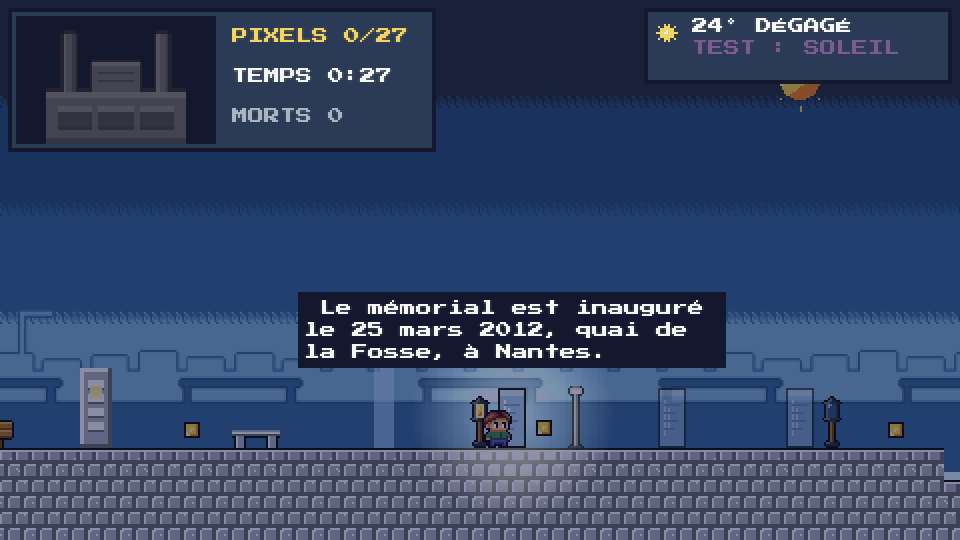
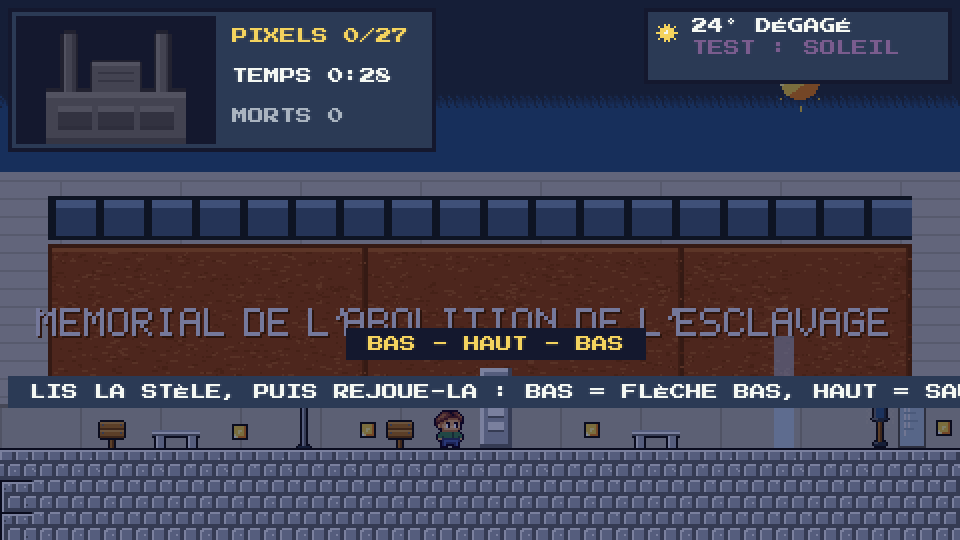
Mémorial : mur de corten sur tout le niveau, passage d'après le vrai lieu (piliers et Loire, verre à citations), chronologie 1777-1888 (dalles datées), une seule plaque de texte à la fois

diff --git a/js/systems/LevelArt.js b/js/systems/LevelArt.js
@@ -1005,6 +1005,69 @@ GP.LevelArt = (function () {
     for (i = 0; i < 4; i++) { R(ctx, 0, 120 + i * 3, 208, 3, i % 2 ? pierreO : pierre); R(ctx, 0, 120 + i * 3, 208, 1, k); }                              // marches
     return o.cv;
   }
+  var POLICE_MEM = {
+    A: ['01110', '10001', '10001', '11111', '10001', '10001', '10001'], B: ['11110', '10001', '10001', '11110', '10001', '10001', '11110'],
+    C: ['01110', '10001', '10000', '10000', '10000', '10001', '01110'], D: ['11110', '10001', '10001', '10001', '10001', '10001', '11110'],
+    E: ['11111', '10000', '10000', '11110', '10000', '10000', '11111'], G: ['01110', '10001', '10000', '10111', '10001', '10001', '01110'],
+    I: ['01110', '00100', '00100', '00100', '00100', '00100', '01110'], L: ['10000', '10000', '10000', '10000', '10000', '10000', '11111'],
+    M: ['10001', '11011', '10101', '10101', '10001', '10001', '10001'], N: ['10001', '11001', '10101', '10011', '10001', '10001', '10001'],
+    O: ['01110', '10001', '10001', '10001', '10001', '10001', '01110'], R: ['11110', '10001', '10001', '11110', '10100', '10010', '10001'],
+    S: ['01111', '10000', '10000', '01110', '00001', '00001', '11110'], T: ['11111', '00100', '00100', '00100', '00100', '00100', '00100'],
+    V: ['10001', '10001', '10001', '10001', '10001', '01010', '00100'], "'": ['00100', '00100', '01000', '00000', '00000', '00000', '00000']
+  };
+  /** Écrit un texte en grosses lettres de la police ci-dessus (échelle sc) : lettre claire et ombre portée. */
+  function lettresMemorial(ctx, txt, x0, y0, sc, col, ombre) {
+    var cx = x0;
+    for (var c = 0; c < txt.length; c++) {
+      var ch = txt[c]; if (ch === ' ') { cx += 4 * sc; continue; }
+      var g = POLICE_MEM[ch];
+      for (var gy = 0; gy < 7; gy++) for (var gx = 0; gx < 5; gx++) if (g[gy][gx] === '1') { R(ctx, cx + gx * sc + 1, y0 + gy * sc + 1, sc, sc, ombre); R(ctx, cx + gx * sc, y0 + gy * sc, sc, sc, col); }
+      cx += (ch === "'" ? 3 : 6) * sc;
+    }
+    return cx - x0;
+  }
+  /**
+   * Fond extérieur du Mémorial (480×236, se répète) : tout le long du niveau, un grand mur d'acier corten (terracotta rouillé) en panneaux de 160 px séparés par des joints,
+   * marbrures de rouille, bandeau de béton clair en haut et socle de béton. D'après des photos du lieu (Wikimédia Commons, référence uniquement).
+   */
+  function drawFondMemorialCorten() {
+    var w = 480, h = 236, o = PA.canvas(w, h), ctx = o.ctx, rnd = PA.rng(12), x, y, i;
+    R(ctx, 0, 0, w, h, '#9a4a2c');
+    for (i = 0; i < 2600; i++) { var px = Math.floor(rnd() * w), py = Math.floor(rnd() * h); R(ctx, px, py, 1 + Math.floor(rnd() * 4), 1 + (rnd() < 0.3 ? 1 : 0), rnd() < 0.5 ? '#8a3f24' : '#b0603a'); }   // marbrures de rouille
+    for (x = 0; x < w; x += 160) { R(ctx, x, 0, 2, h, '#6a321e'); R(ctx, x + 2, 0, 1, h, '#b8663c'); for (y = 12; y < h; y += 40) { P(ctx, x + 6, y, '#6a321e'); P(ctx, x + 154, y, '#6a321e'); } }   // joints et boulons
+    R(ctx, 0, 0, w, 16, '#c4c4bd'); for (x = 0; x < w; x += 60) R(ctx, x, 0, 1, 16, '#aeaea8'); R(ctx, 0, 16, w, 2, '#6a321e');   // bandeau de béton en haut
+    R(ctx, 0, 204, w, 32, '#b9b9b2'); R(ctx, 0, 204, w, 2, '#8a8a84'); for (x = 0; x < w; x += 40) R(ctx, x, 206, 1, 30, '#a0a09a');   // socle de béton
+    return o.cv;
+  }
+  /** Lettres du Mémorial (480×150, transparent) : « MEMORIAL DE L'ABOLITION / DE L'ESCLAVAGE » en grosses lettres claires, posées sur le mur de corten. */
+  function drawFacadeMemorial() {
+    var o = PA.canvas(480, 150), ctx = o.ctx, sc = 3;
+    var l1 = "MEMORIAL DE L'ABOLITION", l2 = "DE L'ESCLAVAGE", w1 = lettresMemorial(PA.canvas(1, 1).ctx, l1, 0, 0, sc, '#000', '#000'), w2 = lettresMemorial(PA.canvas(1, 1).ctx, l2, 0, 0, sc, '#000', '#000');
+    lettresMemorial(ctx, l1, Math.floor((480 - w1) / 2), 22, sc, '#ecece8', '#5a2814');
+    lettresMemorial(ctx, l2, Math.floor((480 - w2) / 2), 58, sc, '#ecece8', '#5a2814');
+    return o.cv;
+  }
+  /** Passage souterrain du Mémorial (480×236, se répète) : béton brut, poutres, grandes plaques de verre translucides vert pâle gravées de lignes de texte, ouverture vers le ciel. */
+  function drawFondMemorialPassage() {
+    // Sous le quai (d'après le vrai passage) : une moitié ouverte sur la Loire entre des piliers de béton, une moitié de mur de verre dépoli incliné gravé de citations
+    var w = 480, h = 236, o = PA.canvas(w, h), ctx = o.ctx, rnd = PA.rng(19), x, y, i;
+    R(ctx, 0, 0, w, h, '#8a8a85'); for (y = 6; y < h; y += 10) { R(ctx, 0, y, w, 1, '#767671'); for (x = (y % 20 ? 40 : 0); x < w; x += 80) R(ctx, x, y, 1, 10, '#767671'); }   // béton banché
+    R(ctx, 0, 0, w, 30, '#5d5d5a'); R(ctx, 0, 30, w, 4, '#4a4a47');                                                  // plafond (dessous du quai)
+    // moitié gauche : la Loire vue entre les piliers
+    R(ctx, 0, 34, 240, 136, '#c9d6de'); R(ctx, 0, 34, 240, 50, '#dbe6ee'); R(ctx, 0, 84, 240, 4, '#9fb0ba');           // ciel clair, rive d'en face
+    R(ctx, 0, 88, 240, 82, '#7f95a2'); for (y = 92; y < 170; y += 5) for (x = Math.floor(rnd() * 14); x < 240; x += 18 + Math.floor(rnd() * 14)) R(ctx, x, y, 6 + Math.floor(rnd() * 8), 1, '#a8bcc8');   // l'eau et ses reflets
+    for (x = 0; x <= 240; x += 80) { R(ctx, x, 34, 26, 136, '#a3a39e'); R(ctx, x + 22, 34, 4, 136, '#77776f'); R(ctx, x, 34, 3, 136, '#bdbdb7'); }   // piliers
+    // moitié droite : mur de verre dépoli, légèrement incliné (les montants penchent), citations gravées
+    R(ctx, 240, 34, 240, 136, '#5c6a66');
+    for (i = 0; i < 4; i++) {
+      var gx = 246 + i * 58;
+      R(ctx, gx, 38, 54, 128, '#cfe0d8'); R(ctx, gx, 38, 54, 22, '#e6f1ec'); R(ctx, gx + 4, 38, 3, 128, 'rgba(255,255,255,0.5)');
+      for (y = 52; y < 156; y += 6) { var lw = 18 + Math.floor(rnd() * 28); R(ctx, gx + 6, y + Math.floor((gx - 246) / 58), lw, 1, '#7e9a8a'); }   // lignes de citations gravées
+      for (y = 38; y < 166; y += 8) R(ctx, gx + 50 - Math.floor((y - 38) / 32), y, 2, 8, '#7d8f88');                  // montant incliné
+    }
+    R(ctx, 0, 170, w, 66, '#6a6a66'); for (x = 0; x < w; x += 48) R(ctx, x, 170, 1, 66, '#585854'); R(ctx, 0, 170, w, 2, '#8a8a85');   // sol de béton
+    return o.cv;
+  }
   /** Note de musique lancée par les Muses du théâtre. */
   function drawNote() {
     var o = PA.canvas(10, 12), ctx = o.ctx, k = GP.PAL.k, y = GP.PAL.y;
@@ -1095,6 +1158,9 @@ GP.LevelArt = (function () {
     PA.toTexture(scene, 'lv_caisse_bananes', drawCaisseBananes());
     PA.toTexture(scene, 'lv_regime', drawRegime());
     PA.toTexture(scene, 'lv_peau', drawPeau());
+    PA.toTexture(scene, 'lv_facade_memorial', drawFacadeMemorial());
+    PA.toTexture(scene, 'lv_fond_memorial_corten', drawFondMemorialCorten());
+    PA.toTexture(scene, 'lv_fond_memorial_passage', drawFondMemorialPassage());
     PA.toTexture(scene, 'lv_facade_graslin', drawFacadeGraslin());
     ['boulangerie', 'chaussettes', 'sacs', 'vetements', 'chapeaux'].forEach(function (b) { PA.toTexture(scene, 'lv_boutique_' + b, drawBoutique(b)); });
     PA.toTexture(scene, 'lv_tapis_rouge', drawTapisRouge());

diff --git a/js/systems/Dangers.js b/js/systems/Dangers.js
@@ -262,8 +262,11 @@ GP.Dangers = function (scene) {
   var glassSet = ['memorial_sol_dalle_verre', 'memorial_sol_dalle_verre', 'memorial_sol_dalle_verre'];
   this.glasses = (L.glasses || []).map(function (g, i) {
     var img = scene.add.image(g.x * 16, g.y * 16, scene.rowTexture('lv_glass_' + i, glassSet, g.w)).setOrigin(0, 0).setDepth(9).setAlpha(0.92);
-    return { img: img, body: scene.platformBody(img, true), x: img.x, w: g.w * 16, state: 'solid', timer: 0 };
+    var c = { img: img, body: scene.platformBody(img, true), x: img.x, w: g.w * 16, state: 'solid', timer: 0, rang: g.rang, lit: false };
+    if (g.annee) c.label = GP.UI.txt(scene, img.x + g.w * 8, img.y - 2, String(g.annee), GP.PAL.w, { backgroundColor: GP.PAL.k, padding: { x: 2, y: 2 } }).setOrigin(0.5, 1).setDepth(10);
+    return c;
   });
+  this.dateNext = 0;   // prochain rang de dalle datée à poser (chronologie)
 
   // ---------- Mémoire : une stèle à lire, puis une porte de lumière qui s'ouvre si on rejoue la séquence (sans danger) ----------
   var WORD = { D: 'BAS', J: 'HAUT' };
@@ -556,9 +559,11 @@ GP.Dangers.prototype = {
     });
 
     // plaques de verre du Mémorial : on s'approche, elles s'allument (et le restent) ; leur texte s'affiche tant qu'on est à côté
+    var proche = null;   // une seule plaque parle à la fois : la plus proche (sinon les textes se superposent)
+    this.plaques.forEach(function (q) { if (Math.abs(p.x - q.x) < 36 && (!proche || Math.abs(p.x - q.x) < Math.abs(p.x - proche.x))) proche = q; });
     this.plaques.forEach(function (q) {
-      var near = Math.abs(p.x - q.x) < 36;
-      if (near && !q.lit) { q.lit = true; q.img.setAlpha(1); if (q.halo) q.halo.setAlpha(0.7); GP.Sfx.play('step'); }
+      var near = q === proche;
+      if (Math.abs(p.x - q.x) < 36 && !q.lit) { q.lit = true; q.img.setAlpha(1); if (q.halo) q.halo.setAlpha(0.7); GP.Sfx.play('step'); }
       q.txt.setAlpha(near ? 1 : 0);
     });
 
@@ -590,13 +595,17 @@ GP.Dangers.prototype = {
     // dalles de verre
     this.glasses.forEach(function (c) {
       var on = c.state === 'solid' && b.touching.down && b.bottom <= c.img.y + 2 && b.right > c.img.x && b.x < c.img.x + c.w;
+      if (on && c.rang !== undefined) {   // dalle datée : dans l'ordre elle s'allume et reste, sinon elle se fissure et la chronologie repart de zéro
+        if (c.lit || c.rang === self.dateNext) { if (!c.lit) { c.lit = true; self.dateNext++; c.img.setTint(0xffe9a0); GP.Sfx.play('confirm'); } on = false; }
+        else self.glasses.forEach(function (o) { if (o.lit) { o.lit = false; o.img.clearTint(); } }), self.dateNext = 0;
+      }
       if (on) { c.state = 'cracking'; c.timer = 800 * self.f('glass'); GP.Sfx.play('step'); c.img.setTint(0xd8ecff); }
       if (c.state === 'cracking') {
         c.timer -= dt; c.img.x = c.x + (GP.reducedMotion ? 0 : (Math.floor(c.timer / 60) % 2 ? 1 : -1));
-        if (c.timer <= 0) { c.state = 'gone'; c.timer = 3000 * self.f('glassback'); c.body.enable = false; c.img.x = c.x; s.tweens.add({ targets: c.img, alpha: 0, y: c.img.y + 8, duration: 220 }); }
+        if (c.timer <= 0) { c.state = 'gone'; if (c.label) c.label.setAlpha(0.25); c.timer = 3000 * self.f('glassback'); c.body.enable = false; c.img.x = c.x; s.tweens.add({ targets: c.img, alpha: 0, y: c.img.y + 8, duration: 220 }); }
       } else if (c.state === 'gone') {
         c.timer -= dt;
-        if (c.timer <= 0) { c.state = 'solid'; c.body.enable = true; s.tweens.killTweensOf(c.img); c.img.setAlpha(0.92).clearTint().setPosition(c.x, c.body.y); }
+        if (c.timer <= 0) { c.state = 'solid'; if (c.label) c.label.setAlpha(1); c.body.enable = true; s.tweens.killTweensOf(c.img); c.img.setAlpha(0.92).clearTint().setPosition(c.x, c.body.y); }
       }
     });
 

diff --git a/js/data/levels-ville.js b/js/data/levels-ville.js
@@ -442,8 +442,10 @@ GP.LEVELS['memorial'] = (function () {
     L.pix(118, 13); L.pix(124, 13);
     L.check(129);
     L.pond(132, 147, 15);
-    L.glass(133, 14, 3); L.glass(138, 13, 3); L.glass(143, 14, 3);
-    L.pix(134, 13); L.pix(139, 12); L.pix(144, 13);
+    L.hint(131, "DANS L'ORDRE DE L'HISTOIRE : 1777, 1794, 1848, 1888");
+    L.date(133, 14, 2, 0, 1777); L.date(137, 13, 2, 1, 1794); L.date(141, 14, 2, 2, 1848); L.date(145, 13, 2, 3, 1888);   // en quinconce : un peu plus exigeant
+    L.date(130, 11, 2, 3, 1888);   // la dalle tentante, avant le chemin et hors de ses sauts : 1888 trop tôt, elle cède
+    L.pix(134, 13); L.pix(138, 11); L.pix(142, 13); L.pix(146, 11); L.pix(130, 10);
     // 5. La remontée vers la lumière
     L.ground(147, 6, 3); L.ground(153, 6, 4); L.ground(159, 6, 5); L.ground(165, 11, 6);
     L.check(148);
@@ -460,7 +462,9 @@ GP.LEVELS['memorial'] = (function () {
     top: ['memorial_sol_haut_1', 'memorial_sol_haut_2'], fill: 'memorial_sol_plein', left: 'memorial_sol_gauche', right: 'memorial_sol_droite', block: 'memorial_sol_plein',
     ledge: ['memorial_passerelle_metal_g', 'memorial_passerelle_metal_m', 'memorial_passerelle_metal_d'], mover: ['memorial_passerelle_metal_g', 'memorial_passerelle_metal_m', 'memorial_passerelle_metal_d']
   };
-  L.sky = { farKey: 'memorial_fond_tile_x', farBottom: 236 };
+  L.sky = { farKey: 'lv_fond_memorial_corten', farBottom: 236 };         // tout le long : le grand mur d'acier corten
+  L.farSwitch = [[0, 'lv_fond_memorial_corten'], [37, 'lv_fond_memorial_passage', 'ON DESCEND DANS LE PASSAGE SOUTERRAIN'], [150, 'lv_fond_memorial_corten', 'ON REMONTE VERS LA LUMIÈRE']];   // dehors, puis le passage de verre et de béton, puis la remontée
+  L.backdrop = { x: 15, key: 'lv_facade_memorial', scale: 1, tint: false };   // la grande façade d'acier corten et son nom découpé
   L.wxm = { rain: { tide: 1, glass: 0.8 }, sun: { tide: -1, glassback: 0.7 } };
   L.weatherText = { rain: 'LA MARÉE MONTE UN PEU ; LE VERRE CÈDE PLUS VITE', sun: 'LA MARÉE RESTE BASSE ; LE VERRE REVIENT VITE', wind: 'LE VENT SOUFFLE SUR LA LOIRE' };
   return L;

diff --git a/js/data/levels.js b/js/data/levels.js
@@ -88,7 +88,8 @@ GP.LevelBuilder = {
       elephant: function (west, east, period) { L.elephants.push({ west: west, east: east, period: period || 13000 }); },                   // le Grand Éléphant traverse un canal du bord ouest au bord est : on monte sur lui
       borne: function (x, color) { L.cbornes.push({ x: x, color: color }); },                                                              // borne de couleur : la toucher allume les passerelles de sa couleur
       cplat: function (x, y, w, color) { L.cplats.push({ x: x, y: y, w: w, color: color }); },                                           // passerelle de couleur (solide seulement si sa couleur est allumée)
-      glass: function (x, y, w) { L.glasses.push({ x: x, y: y, w: w }); },                                                                    // dalle de verre qui se fissure
+      glass: function (x, y, w) { L.glasses.push({ x: x, y: y, w: w }); },
+      date: function (x, y, w, rang, annee) { L.glasses.push({ x: x, y: y, w: w, rang: rang, annee: annee }); },   // dalle datée : à poser dans l'ordre de l'histoire (rang 0, 1, 2…), sinon elle se fissure                                                                    // dalle de verre qui se fissure
       memo: function (stele, gate, pattern) { L.memos.push({ stele: stele, gate: gate, pattern: pattern.split('') }); },                       // stèle à lire, porte à ouvrir de mémoire (D = bas, J = haut)
       draft: function (x0, x1, y0, y1) { L.drafts.push({ x0: x0, x1: x1, y0: y0, y1: y1 }); },                                               // courant d'air ascendant (gravité allégée)
       pond: function (x0, x1, row) { L.ponds.push({ x0: x0, x1: x1, row: row }); },                                                           // eau décorative

diff --git a/js/data/lang/en.js b/js/data/lang/en.js
@@ -139,6 +139,9 @@ GP.EN = {
     "LA GRUE DU QUAI LÂCHE DES CAISSES DE BANANES : L'OMBRE PRÉVIENT": "THE QUAY CRANE DROPS BANANA CRATES: THE SHADOW WARNS YOU",
     "LES CAISSES FONT UN ESCALIER : MONTE !": "THE CRATES MAKE STAIRS: CLIMB!",
     "LA GRUE PORTE DES CAISSES : TRAVERSE": "THE CRANE CARRIES CRATES: CROSS",
+    "ON DESCEND DANS LE PASSAGE SOUTERRAIN": "WE GO DOWN INTO THE UNDERGROUND PASSAGE",
+    "DANS L'ORDRE DE L'HISTOIRE : 1777, 1794, 1848, 1888": "IN THE ORDER OF HISTORY: 1777, 1794, 1848, 1888",
+    "ON REMONTE VERS LA LUMIÈRE": "WE CLIMB BACK TOWARDS THE LIGHT",
     "LA GALERIE DES MACHINES : AVANCE VERS L'ÉLÉPHANT": "THE MACHINE GALLERY: HEAD FOR THE ELEPHANT",
     "UNE ARAIGNÉE DESCEND : REGARDE-LA POUR LA FIGER OU ACCROUPIS-TOI": "A SPIDER IS COMING DOWN: LOOK AT IT TO FREEZE IT OR CROUCH",
     "MONTE SUR LE GRAND ÉLÉPHANT : IL TRAVERSE LE CANAL": "CLIMB ONTO THE GREAT ELEPHANT: IT CROSSES THE CANAL",

diff --git a/CREDITS.md b/CREDITS.md
@@ -47,6 +47,6 @@ Les photos de repérage de la gare de Nantes et du Jardin des Plantes (arrêt de
 Les **topiaires** et le personnage en bois du jardin sont des œuvres d'artistes vivants, protégées : le jeu les évoque par des formes génériques (butte de feuillage arrondie, silhouette de bois simple) **sans les copier**.
 **Silhouettes du niveau 1** (`lv_sil_orange`, `lv_sil_jaune`, `lv_sil_ruban`, `lv_sil_oiseau`) : dessins originaux de l'équipe, en pixel art, **inspirés** des sculptures colorées installées au Jardin des Plantes (personnages de **Jean Jullien**, oiseau en topiaire évoquant l'univers de **Claude Ponti**). Ce sont des formes très simplifiées, redessinées de zéro : aucune photo ni aucune image des œuvres n'est reprise ni intégrée. Ces rapprochements (artistes, titres exacts des œuvres) sont à confirmer dans `docs/sources.md` avant la présentation.
 **Fond et salles du Château** (`lv_fond_chateau`, `lv_salle_herses`, `lv_salle_gardes`) : dessinés par code, d'après des descriptions de l'architecture du château (Wikipédia) et des vues consultées sur Wikimedia Commons, utilisées comme **référence de dessin uniquement** : aucune image n'est téléchargée ni intégrée.
-**Niveaux 4 à 12** (Île Feydeau, Place Graslin, Machines de l'île, Parc des Chantiers, Anneaux de Buren, Hangar à Bananes, Mémorial, Passage Pommeraye, Tour LU) : décors tirés des planches de sprites existantes (voir « Sprites de décor ») ; les personnages et accessoires ajoutés (esprit de la garde, petit robot, note de musique, conteneur, rideau, tapis roulant) et le dessin de la Tour LU et de sa coupole (forme générale uniquement) sont des dessins originaux de l'équipe, générés par code (`js/systems/LevelArt.js`), sans source externe. Les fonds de Feydeau (hôtels d'armateurs), de Graslin (immeubles de la place), de la Tour LU (ancienne biscuiterie) et du Passage Pommeraye (`lv_fond_feydeau`, `lv_fond_graslin`, `lv_fond_lu`, `lv_fond_pommeraye`) est dessiné par code d'après des vues du passage consultées sur Wikipédia (**référence de dessin uniquement**). Le fond de la nef de la Cathédrale (`lv_fond_nef` : vitraux, rosace, piliers) et les bancs d'église (`lv_banc_eglise`) sont dessinés par code d'après des vues de l'intérieur (référence de dessin uniquement). Le fond du niveau des Machines de l'île (`lv_fond_hangar` : la Galerie des Machines, verrière à treillis et portiques de béton) est dessiné par code d'après des photos de Wikimédia Commons (référence de dessin uniquement). Les machines du niveau des Machines de l'île (`lv_elephant`, `lv_carrousel`, `lv_arbre_herons`, `lv_gardienne`) sont des dessins originaux en pixel art, inspirés de photos de Wikimédia Commons (Grand Éléphant, Carrousel des Mondes Marins, Arbre aux Hérons, La Gardienne des Ténèbres) : **référence de dessin uniquement**, aucune image reprise ; ces œuvres sont celles de La Machine / Les Machines de l'île (François Delarozière, Pierre Orefice). Le fond du niveau du Hangar à Bananes (`lv_fond_hangar_quai`, rails, garde-corps corten, flèche de grue) est dessiné par code d'après des photos du quai des Antilles sur Wikimédia Commons (référence de dessin uniquement). La peau de banane du Hangar est un dessin original, inspiré de la banane des jeux Mario Kart (forme générale et couleurs seulement, rien n'est repris). La façade du théâtre Graslin (`lv_facade_graslin`) est dessinée par code d'après des photos de la place sur Wikimédia Commons (référence de dessin uniquement). Les petits-beurres, le bitume, les panneaux de rue, les feux et l'abribus du niveau de la Tour LU (`lv_pb_*`, `lv_bit_*`, `lv_pan_*`, `lv_feu`, `lv_abribus`, `lv_fond_quartier`) sont des dessins originaux en pixel art ; les panneaux suivent le code de la route de façon très simplifiée, sans reprise du graphisme de la marque LU. Les mécaniques (marée, projecteurs, anneaux, pourriture…) sont codées dans `js/systems/Dangers.js`. Les anneaux de Buren s'inspirent de l'œuvre *Les Anneaux* de Daniel Buren (Quai des Antilles) par une forme générique, sans reproduire l'œuvre ; l'éléphant et les machines évoquent les Machines de l'île sans reprendre leurs dessins.
+**Niveaux 4 à 12** (Île Feydeau, Place Graslin, Machines de l'île, Parc des Chantiers, Anneaux de Buren, Hangar à Bananes, Mémorial, Passage Pommeraye, Tour LU) : décors tirés des planches de sprites existantes (voir « Sprites de décor ») ; les personnages et accessoires ajoutés (esprit de la garde, petit robot, note de musique, conteneur, rideau, tapis roulant) et le dessin de la Tour LU et de sa coupole (forme générale uniquement) sont des dessins originaux de l'équipe, générés par code (`js/systems/LevelArt.js`), sans source externe. Les fonds de Feydeau (hôtels d'armateurs), de Graslin (immeubles de la place), de la Tour LU (ancienne biscuiterie) et du Passage Pommeraye (`lv_fond_feydeau`, `lv_fond_graslin`, `lv_fond_lu`, `lv_fond_pommeraye`) est dessiné par code d'après des vues du passage consultées sur Wikipédia (**référence de dessin uniquement**). Le fond de la nef de la Cathédrale (`lv_fond_nef` : vitraux, rosace, piliers) et les bancs d'église (`lv_banc_eglise`) sont dessinés par code d'après des vues de l'intérieur (référence de dessin uniquement). Le fond du niveau des Machines de l'île (`lv_fond_hangar` : la Galerie des Machines, verrière à treillis et portiques de béton) est dessiné par code d'après des photos de Wikimédia Commons (référence de dessin uniquement). Les machines du niveau des Machines de l'île (`lv_elephant`, `lv_carrousel`, `lv_arbre_herons`, `lv_gardienne`) sont des dessins originaux en pixel art, inspirés de photos de Wikimédia Commons (Grand Éléphant, Carrousel des Mondes Marins, Arbre aux Hérons, La Gardienne des Ténèbres) : **référence de dessin uniquement**, aucune image reprise ; ces œuvres sont celles de La Machine / Les Machines de l'île (François Delarozière, Pierre Orefice). Le fond du niveau du Hangar à Bananes (`lv_fond_hangar_quai`, rails, garde-corps corten, flèche de grue) est dessiné par code d'après des photos du quai des Antilles sur Wikimédia Commons (référence de dessin uniquement). La peau de banane du Hangar est un dessin original, inspiré de la banane des jeux Mario Kart (forme générale et couleurs seulement, rien n'est repris). La façade du théâtre Graslin (`lv_facade_graslin`) est dessinée par code d'après des photos de la place sur Wikimédia Commons (référence de dessin uniquement). La façade et le passage du Mémorial (`lv_facade_memorial`, `lv_fond_memorial_passage`) sont dessinés par code d'après des photos du lieu sur Wikimédia Commons (référence de dessin uniquement ; aucune photo de personne n'est utilisée). Les petits-beurres, le bitume, les panneaux de rue, les feux et l'abribus du niveau de la Tour LU (`lv_pb_*`, `lv_bit_*`, `lv_pan_*`, `lv_feu`, `lv_abribus`, `lv_fond_quartier`) sont des dessins originaux en pixel art ; les panneaux suivent le code de la route de façon très simplifiée, sans reprise du graphisme de la marque LU. Les mécaniques (marée, projecteurs, anneaux, pourriture…) sont codées dans `js/systems/Dangers.js`. Les anneaux de Buren s'inspirent de l'œuvre *Les Anneaux* de Daniel Buren (Quai des Antilles) par une forme générique, sans reproduire l'œuvre ; l'éléphant et les machines évoquent les Machines de l'île sans reprendre leurs dessins.
 **Personnages des anecdotes** (carte du monde, `GP.Scenes.Map.personKey`) : même sprite que l'avatar du joueur (`GP.Character`) avec des accessoires dessinés par code, d'après des portraits et photos d'époque vus sur Wikipédia/Wikimédia Commons (Anne de Bretagne, Jean-Joseph-Louis Graslin, Louis Lefèvre-Utile, Jules Verne : couleurs et silhouette uniquement, **référence de dessin, aucune image reprise**) ; les anecdotes sont des textes reformulés par l'équipe à partir des sources patrimoniales listées dans `docs/sources.md`.
 Les captures de référence fournies (cartes de monde et niveaux de jeux de plateforme, jeux en vue de dessus, planches de touches de clavier) ont servi **d'inspiration uniquement** : aucun élément n'en est repris. Certaines portent des filigranes de banques d'images : elles ne sont ni intégrées au jeu ni diffusées.

diff --git a/docs/carnet-de-bord.md b/docs/carnet-de-bord.md
@@ -61,6 +61,7 @@
 **Machines de l'île et Cathédrale (retours)** : les Machines montrent en décor le Carrousel des Mondes Marins, l'Arbre aux Hérons (avec son héron), la Gardienne des Ténèbres (l'« araignée » : buste de femme en bronze sur un corps d'araignée d'acier) et le Grand Éléphant, dessinés par code d'après des photos de Wikimédia Commons. Cathédrale : les gargouilles (statues dans le vide) sont remplacées par des **fissures de la voûte** qui suintent et laissent tomber des gouttes, sous une arche de pierre en haut de l'écran.
 **Machines : sans tapis roulants, araignées suspendues** : les tapis roulants sont retirés du niveau ; des araignées descendent du plafond au bout d'un fil quand le joueur ne les regarde pas (elles se figent s'il les regarde, remontent s'il s'éloigne ; accroupi, on passe dessous). Vérifié par script.
 **Machines : vrai hangar, sans vent** : le fond reproduit la Galerie des Machines (verrière à treillis d'acier, portiques de béton gris, arbres au fond, plancher clair), d'après des photos de Wikimédia Commons ; l'effet du vent (tapis plus vifs) est retiré : le niveau garde la pluie (jets plus courts) et le soleil (araignées plus rapides). Le carrousel, l'arbre aux hérons, la gardienne et l'éléphant sont toujours là.
+**Mémorial : façade et passage d'après les photos** : grande façade en **acier corten** (terracotta rouillé, trois panneaux) avec le nom « MEMORIAL DE L'ABOLITION DE L'ESCLAVAGE » en lettres claires, cadre de béton banché et bandeau vitré, en décor derrière le parvis ; à la descente (tuile 37), le fond change pour le **passage souterrain** : béton brut, poutres, grandes plaques de verre vert pâle gravées de lignes de texte, ouvertures vers le ciel ; message « ON DESCEND DANS LE PASSAGE SOUTERRAIN » puis « ON REMONTE VERS LA LUMIÈRE » (tuile 150). Pas de vitrines : aucune source consultée n'en mentionne.
 **Place Graslin d'après la photo, Pommeraye plus commerçant** : la façade du théâtre est redessinée comme sur les photos de la place : péristyle de huit colonnes corinthiennes, huit Muses sur le toit et **grandes toiles colorées** tendues entre les colonnes (jaune, vert, bleu, violet, rouge, orange) ; la **fontaine** et les **bornes noires** du parvis sont ajoutées. Au Passage Pommeraye : cinq types de boutiques (boulangerie, vêtements, chaussettes, chapeaux, maroquinerie), une quinzaine en tout, et le tapis rouge court aussi sur les marches du grand escalier et de la dernière montée.
 **Pommeraye plus réaliste, Graslin plus lisible** (retours après la planche des 12 niveaux) : au Passage Pommeraye, les ouvertures du plancher ne montrent plus du ciel et de l'eau mais le **niveau inférieur du passage** (sol de dalles sombres, vitrines éclairées) ; des **boutiques** (boulangerie, magasin de chaussettes, maroquinerie aux sacs) remplacent les devantures génériques, et un **tapis rouge** à liseré doré court le long de la galerie basse et de la mezzanine. À Graslin, de vraies **portes de l'Opéra** (fronton bleu et or aux deux masques, rideaux rouges) marquent l'entrée, avec le message « OPÉRA GRASLIN : ON ENTRE DANS LE THÉÂTRE » quand le décor change. Le nom du lieu s'affiche déjà au début de chaque niveau (« ÉTAPE nn · NOM ») pendant environ 2 secondes.
 **Hangar : les caisses de bananes deviennent un système** (retour de l'équipe) : plus de bananes au sol (le code des peaux est conservé mais plus utilisé) ; les caisses forment un **escalier** (piles de 1, 2, 3, 2, 1 caisses, le dessus de chaque pile est une plateforme, avec des pixels dessus) et la **grue du quai porte deux caisses** qui traversent un vide (`L.caisse`, `L.crane` avec le sprite de la caisse) ; les caisses qui tombent restent en fin de niveau. Vérifié par script : un joueur automatique monte au-dessus de la plus haute pile et passe le vide ; non rejoué à la main.
@@ -80,3 +81,5 @@
 **Anecdotes des personnages (carte du monde)** : à la fin d'un niveau, un petit personnage dessiné par code apparaît près du monument sur la carte ; la fiche du lieu a une page « RENCONTRE » (nom, anecdote, source). Onze lieux, dont un simple panneau au Mémorial. Textes reformulés à partir de sources patrimoniales listées dans `docs/sources.md` (avec les points à confirmer) ; traduits en anglais. À valider par l'équipe.
 **Retour de l'équipe (Buren, mécanique)** : les anneaux de jeu se confondaient avec ceux du décor. Les reflets clignotants (essai) ont été écartés au profit de **bornes de couleur** : marcher sur une borne bleue, verte ou rouge allume les passerelles néon de sa couleur (`L.borne`, `L.cplat`, `js/systems/Dangers.js`), avec une île-borne au milieu des grands bras d'eau ; sous la pluie, une couleur autre que le bleu ne dure que 5 s. Les anneaux d'élan et l'alignement sont retirés de Buren (le code `L.ring` sert encore à la Tour LU). Garde-corps du quai en décor (`L.railing`). Vérifié par script : un joueur qui saute en continu franchit les traversées bleu → rouge, bleu → vert, bleu → vert → rouge sans mourir.
 **Retour de l'équipe (nuit) — Buren** : le décor suit la photo des vrais Anneaux, avec **deux versions du fond selon l'heure de la météo** (jour : rive claire, anneaux colorés ; nuit : rive éclairée, néon allumé), pour que la météo garde son effet : grande image de fond (quai éclairé, dôme, eau) où des anneaux néon bleu, vert et rouge se succèdent en perspective jusqu'à l'horizon ; les anneaux de jeu sont des cercles néon avec halo et mât, plus gros, avec une zone de passage plus généreuse. Le fond change avec `isDay` (`L.nightFond`, `farNightKey`), les règles restent celles de la météo. Vérifié par script : saut dans l'anneau rouge réussi de 16 à 17,7 tuiles, chaîne de trois anneaux réussie de 106,6 à 107,7, anneau bleu jusqu'à la passerelle, alignement et pont.
+- 11 novembre 2026 — Mémorial : le grand mur d'acier corten (terracotta rouillé, panneaux et joints, socle de béton) occupe désormais **tout le fond du niveau** ; le nom « MEMORIAL DE L'ABOLITION DE L'ESCLAVAGE » est en grosses lettres claires sur l'esplanade de départ ; le passage souterrain (verre gravé) reste entre les tuiles 37 et 150. Vérifié dans le navigateur (de jour, sans erreur de console).
+- 11 novembre 2026 — Mémorial, d'après la description du lieu (Wikipédia EN : passage sous les quais, ouvert sur la Loire entre des piliers, mur de verre dépoli incliné gravé de citations ; 2 000 dalles de verre dans le sol : 1 710 navires, 290 ports) : fond du passage refait (piliers et Loire / mur de verre à citations en alternance). Nouvelle mécanique « chronologie » (`L.date`) : quatre dalles datées 1777, 1794, 1848, 1888 à poser dans l'ordre ; dans l'ordre elles restent allumées, une dalle trop tôt (la tentante 1888) se fissure et remet la chronologie à zéro. Une seule plaque de texte affichée à la fois. Testé par script (ordre, reset, fissure).

diff --git a/docs/sources.md b/docs/sources.md
@@ -38,6 +38,9 @@ Sources consultées le 10 novembre 2026 (recherche web, pages patrimoniales de l
 | Tour LU | LOUIS LEFÈVRE-UTILE | J'ai imaginé le Petit-Beurre en 1886. Pour l'Exposition universelle de 1900, j'ai fait élever une tour de 36 mètres. | https://www.herodote.net/Les_biscuits_LU-synthese-2799.php ; https://artsandculture.google.com/exhibit/lu-une-histoire-nantaise/YwJSmyHH3im9Kg?hl=fr | Plusieurs dates divergent selon les sources (1886 pour le Petit-Beurre, 1888 pour le dépôt de marque) : à confirmer auprès du Château des ducs (exposition « LU, une histoire nantaise »). |
 | Mémorial | PANNEAU | MÉMORIAL DE L'ABOLITION DE L'ESCLAVAGE. Inauguré le 25 mars 2012, quai de la Fosse. Œuvre de Krzysztof Wodiczko et Julian Bonder. | https://metropole.nantes.fr/actualites/le-memorial-de-l-abolition-de-l-esclavage-monument-politique-et-artistique ; https://www.slaverymonuments.org/items/show/1152 | Texte volontairement neutre, sans personnage. |
 
+## Références de dessin du Mémorial (non intégrées)
+Photos consultées sur Wikimédia Commons le 11 novembre 2026 : « Mémorial de l'abolition de l'esclavage.jpg » (mur d'acier corten et lettres découpées), « … (8).jpg » (composition de la façade), « … (6).jpg » (plaques de verre gravées de l'article 4, en français et en anglais). Plusieurs photos montrent des personnes : elles servent seulement à comprendre les matériaux et la composition, rien n'est reproduit.
+
 ## Plaques du Mémorial (niveau 10)
 Six plaques de verre s'allument quand le joueur s'approche et affichent un fait. **Texte à valider par l'équipe avant la présentation** ; aucune scène inventée, aucune parole prêtée à une personne.
 
